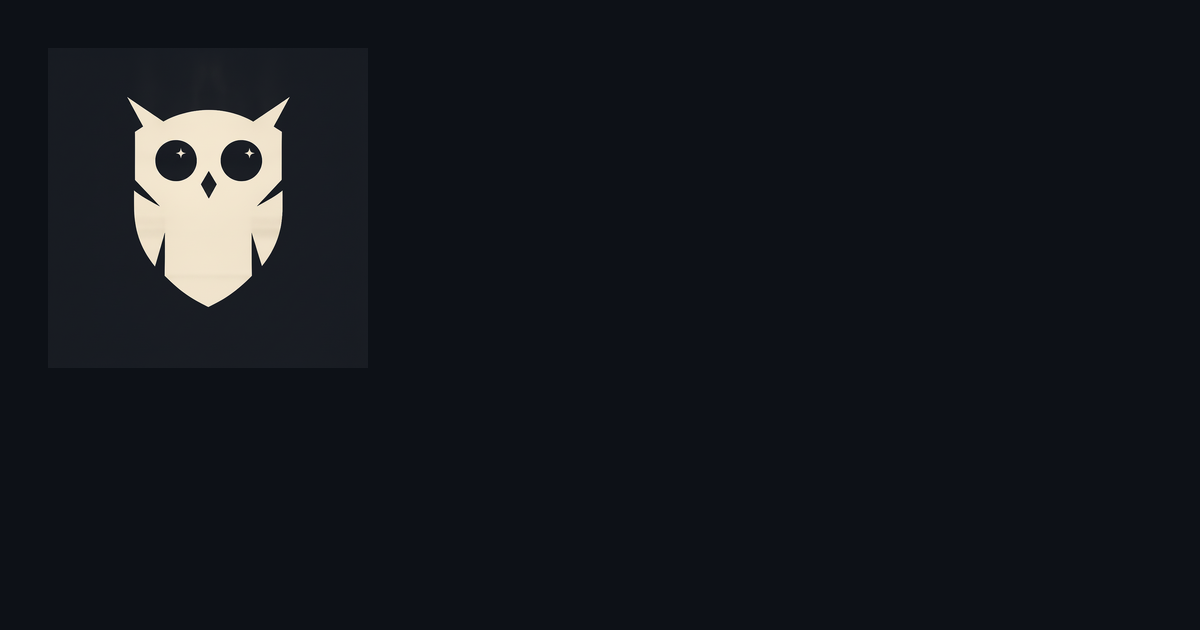
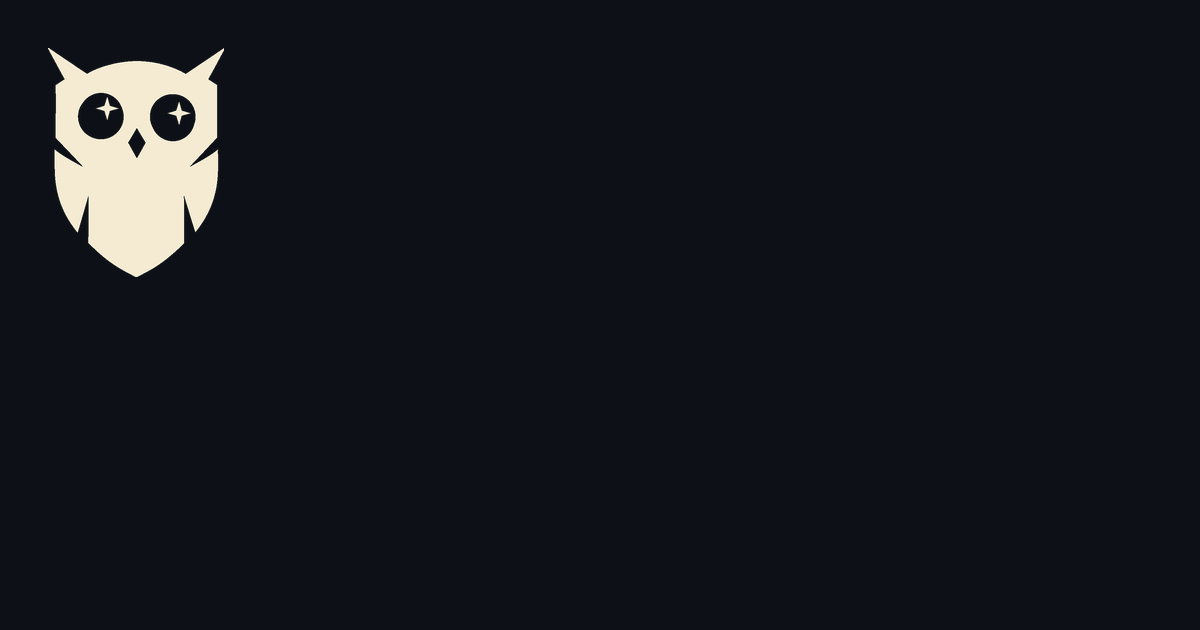
Watchman canon: void stars enlarged to 1/3 eye width (same upper-right position, both eyes)
- new canon: owl-ingest-canon.png (flat two-tone, crisp 4-point catchlights)
- rebuilt all carriers: owl-brand-48/256, og-card-owl, imageset glyphs
- SKILL.md canon reference updated (navy light / cream dark ink law)

Changed region(s): [[0.0308, 0.0905, 0.2467, 0.4825]]

diff --git a/skills/gest-share/SKILL.md b/skills/gest-share/SKILL.md
@@ -21,10 +21,13 @@ upstream: MediaPlural/ingest
 
 # Gest Share — the agent skill for the INGEST.md/gest feature set
 
-> **The Watchman owl** (assets/design/owl-ingest/owl-ingest-friendly-1.png in this
-> repo, served at /assets/design/... on all hosts) is the FACE OF THE GEST: any
-> UI, list, card, or notification representing a gest within Viiy carries the
-> Watchman mark. Lore: the Watchman keeps Segais — every gest carries its gaze.
+> **The Watchman owl** (assets/design/owl-ingest/owl-ingest-canon.png in this
+> repo — shield-crest Watchman with four-pointed void-star catchlights at ~1/3
+> eye width, upper-right position, both eyes — served at /assets/design/... on
+> all hosts) is the FACE OF THE GEST: any UI, list, card, or notification
+> representing a gest within Viiy carries the Watchman mark. Light-mode
+> surfaces carry the navy-ink glyph; dark-mode surfaces the cream-ink glyph.
+> Lore: the Watchman keeps Segais — every gest carries its gaze.
 
 
 One engine, every runtime (Hermes, Claude Code, OpenClaw, Cursor, .viiy, MCP clients). This SKILL.md speaks the AgentSkills dialect; `install-everywhere.sh` carries it to each runtime.
